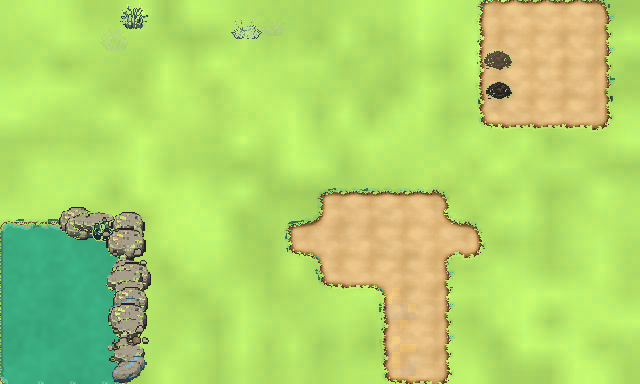
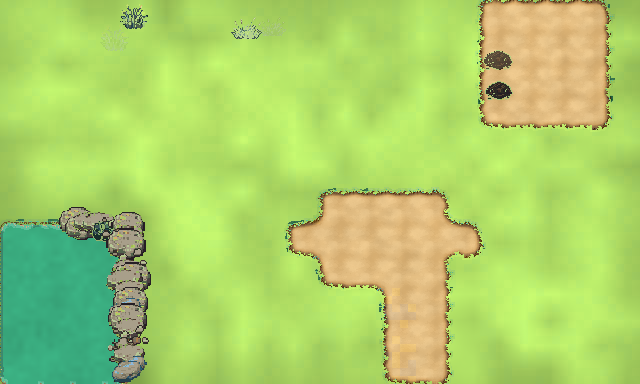
Ground: authored tonal zones — the ref's missing layer
The ref ground isn't one flat tile: grass darkens and goes olive
toward water shores (v0.62 band) and map edges, while sun pools
stay near-white. Ours applied one hue uniformly = flat/overtuned.

New 'zones' block in grass ramp, applied post-lerp inside
tb_family_regrade (the toward-lerp compresses spread, so zones
must stamp after it):
- shore band: dist-to-water field, -20% v + olive hue shift
- edge vignette: -10% v within 48px of map edges
- cap 0.30 so stacked zones can't crush
Shore now reads (131,157,75) v0.62 vs field (174,201,82) v0.80 —
matches the ref's layer structure.

Changed region(s): [[0.0, 0.4375, 0.2188, 0.625], [0.1875, 0.875, 0.2812, 1.0], [0.1875, 0.6562, 0.2188, 0.7188]]

diff --git a/tools/tb_family_regrade.py b/tools/tb_family_regrade.py
@@ -69,6 +69,31 @@ def transfer(h, s, v, m, p):
                          .resize((nv.shape[1], nv.shape[0]), Image.BILINEAR),
                          dtype=float) / 255.0
         nv = nv + np.clip(nse - 0.42, -0.5, 0.58) * 2.0 * amp   # warm-biased
+    # tonal zones: the ref ground is hand-crafted layers — grass darkens
+    # + goes olive toward water shores and map edges, canopy band stays
+    # shaded. Applied post-lerp so the zones survive compression.
+    if "zones" in p:
+        z = p["zones"]
+        tile = z["tile"]
+        zmask = [l.rstrip("\n") for l in open(z["mask"]) if l.strip()]
+        H, Wd = nv.shape
+        yy, xx = np.mgrid[0:H, 0:Wd]
+        wt = [(c * tile + tile / 2, r * tile + tile / 2)
+              for r, row in enumerate(zmask)
+              for c, ch in enumerate(row) if ch == "W"]
+        if wt:
+            dist = np.minimum.reduce(
+                [(xx - wx) ** 2 + (yy - wy) ** 2 for wx, wy in wt]) ** 0.5
+            shore = np.clip(1.0 - dist / z["shore_px"], 0, 1) * z["shore_amt"]
+        else:
+            shore = 0.0
+        edge = np.minimum.reduce(
+            [xx, Wd - 1 - xx, yy, H - 1 - yy])
+        ev = np.clip(1.0 - edge / z["edge_px"], 0, 1) * z["edge_amt"]
+        top = np.clip(1.0 - yy / z["top_px"], 0, 1) * z["top_amt"]
+        damp = np.clip(shore + ev + top, 0, z["cap"])
+        nv = nv * (1.0 - damp)                 # darker
+        nh = nh + shore * z.get("h_shift", 0.0)  # olive shift at shore
     return nh % 1.0, np.clip(ns, 0, 1), np.clip(nv, 0, 1)
 
 
